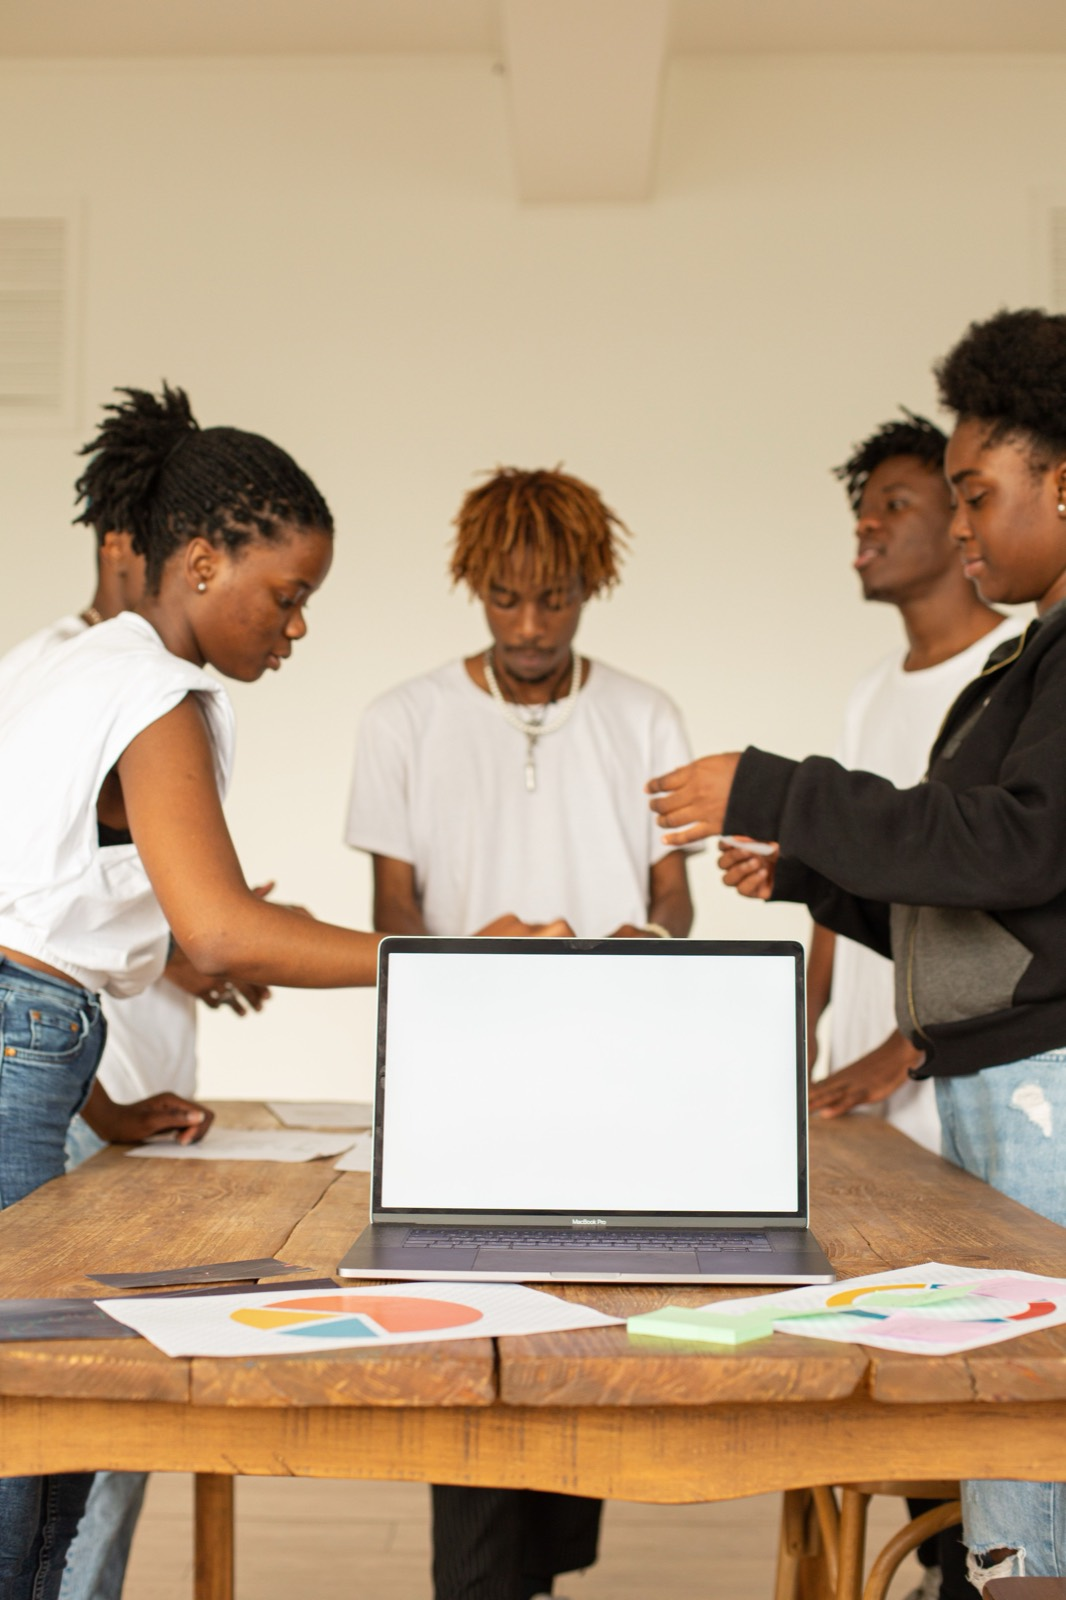
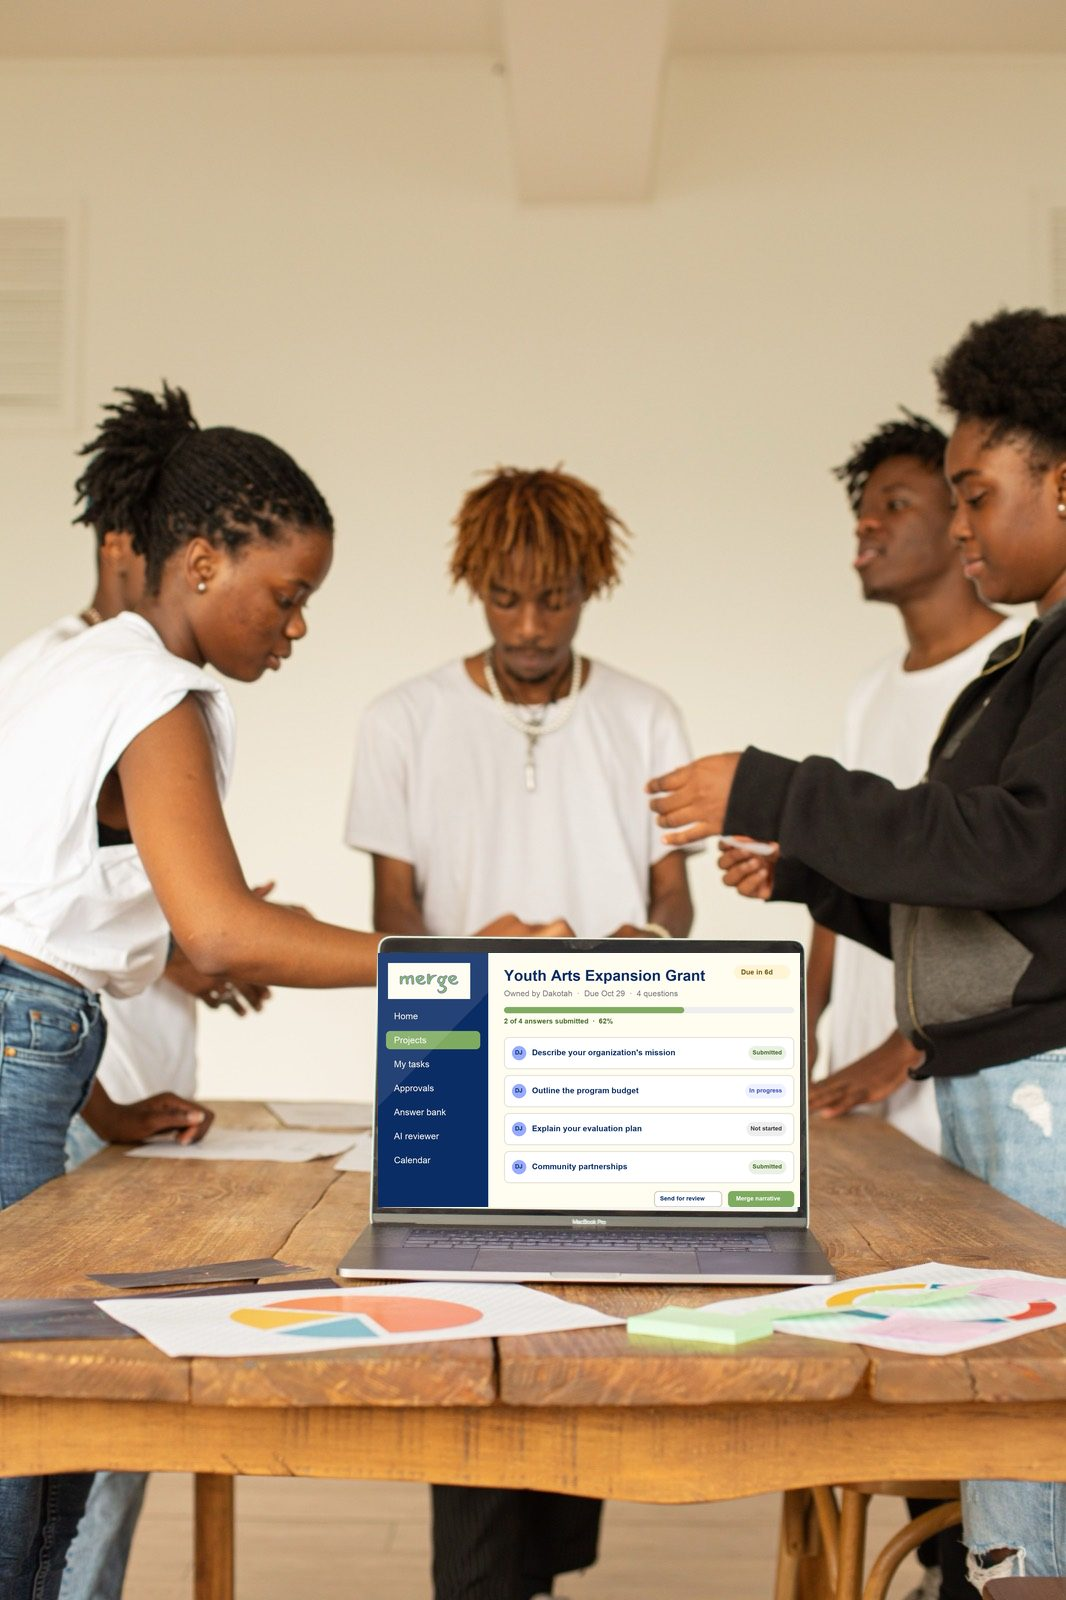
Organization track: Solo Writer $14.99, Small Teams $12.99, Large Teams $21.99, Companies $29.99; Merge screen composited into share image

Changed region(s): [[0.3405, 0.5938, 0.7739, 0.7812]]

diff --git a/client/public/index.html b/client/public/index.html
@@ -16,12 +16,12 @@
     <meta property="og:title" content="Merge · Grant proposals, written together" />
     <meta property="og:description" content="Grant-writing software that turns a funding application into a shared checklist: questions, word limits, past answers, approvals, and a downloadable proposal." />
     <meta property="og:url" content="https://mergev1-78hi.vercel.app/" />
-    <meta property="og:image" content="https://mergev1-78hi.vercel.app/img/team.jpg" />
+    <meta property="og:image" content="https://mergev1-78hi.vercel.app/img/og.jpg" />
     <meta property="og:image:alt" content="A nonprofit team reviewing a grant proposal together" />
     <meta name="twitter:card" content="summary_large_image" />
     <meta name="twitter:title" content="Merge · Grant proposals, written together" />
     <meta name="twitter:description" content="Grant-writing software for nonprofits, consultants, and solo grant writers." />
-    <meta name="twitter:image" content="https://mergev1-78hi.vercel.app/img/team.jpg" />
+    <meta name="twitter:image" content="https://mergev1-78hi.vercel.app/img/og.jpg" />
 
     <link rel="icon" href="%PUBLIC_URL%/favicon.ico" />
     <link rel="apple-touch-icon" href="%PUBLIC_URL%/logo192.png" />
@@ -48,8 +48,10 @@
             { "@type": "Offer", "name": "Starter (grant writers)", "price": "6.99", "priceCurrency": "USD", "priceSpecification": { "@type": "UnitPriceSpecification", "price": "6.99", "priceCurrency": "USD", "billingIncrement": 1, "unitText": "month" } },
             { "@type": "Offer", "name": "Premium (grant writers)", "price": "21.99", "priceCurrency": "USD" },
             { "@type": "Offer", "name": "Professional (grant writers)", "price": "59.99", "priceCurrency": "USD" },
-            { "@type": "Offer", "name": "Team", "price": "22.99", "priceCurrency": "USD", "description": "Per person per month, up to 5 people" },
-            { "@type": "Offer", "name": "Enterprise", "price": "49.99", "priceCurrency": "USD", "description": "Per person per month, up to 20 people" }
+            { "@type": "Offer", "name": "Solo Writer (organizations)", "price": "14.99", "priceCurrency": "USD", "description": "Per month, one person" },
+            { "@type": "Offer", "name": "Small Teams", "price": "12.99", "priceCurrency": "USD", "description": "Per person per month, up to 5 people" },
+            { "@type": "Offer", "name": "Large Teams", "price": "21.99", "priceCurrency": "USD", "description": "Per person per month, up to 20 people" },
+            { "@type": "Offer", "name": "Companies", "price": "29.99", "priceCurrency": "USD", "description": "Per person per month, unlimited people" }
           ],
           "publisher": { "@id": "https://mergev1-78hi.vercel.app/#org" }
         },
@@ -72,7 +74,7 @@
             { "@type": "Question", "name": "What is Merge?", "acceptedAnswer": { "@type": "Answer", "text": "Merge is grant-writing software. You enter the questions a funder asks, write or assign answers, keep each one inside its word limit, get sign-off, and download the finished proposal as a PDF or Word document." } },
             { "@type": "Question", "name": "Who is Merge for?", "acceptedAnswer": { "@type": "Answer", "text": "Solo grant writers, nonprofit development teams, and consultants who manage proposals for several clients. There is a writer track for one person and a team track for organizations that write together." } },
             { "@type": "Question", "name": "Does Merge use AI?", "acceptedAnswer": { "@type": "Answer", "text": "Yes. Ask Merge is a writing assistant that knows your organization profile, partners, and the project you have open. The AI reviewer critiques a proposal against a funder's website and purpose statement. AI features are on paid plans." } },
-            { "@type": "Question", "name": "How much does Merge cost?", "acceptedAnswer": { "@type": "Answer", "text": "Grant writers: Free for one grant, Starter $6.99 a month, Premium $21.99 a month, Professional $59.99 a month. Teams: Team $22.99 per person per month for up to 5 people, Enterprise $49.99 per person per month for up to 20, and Custom for larger networks. Every new workspace starts with a free 14-day trial." } },
+            { "@type": "Question", "name": "How much does Merge cost?", "acceptedAnswer": { "@type": "Answer", "text": "Grant writers: Free for one grant, Starter $6.99 a month, Premium $21.99 a month, Professional $59.99 a month. Organizations: Solo Writer $14.99 a month for one person, Small Teams $12.99 per person per month for up to 5 people, Large Teams $21.99 per person per month for up to 20, and Companies $29.99 per person per month with unlimited people. Every new workspace starts with a free 14-day trial." } },
             { "@type": "Question", "name": "Can someone approve a proposal without an account?", "acceptedAnswer": { "@type": "Answer", "text": "Yes. Send for review creates a read-only link. The reviewer reads the proposal and either approves it or requests changes with notes, with no login required." } }
           ]
         }
@@ -99,7 +101,7 @@
           <li><strong>Partners, past proposals, file cabinet, grant calendar, and per-grant notes.</strong></li>
         </ul>
         <h2>Pricing</h2>
-        <p><strong>For grant writers:</strong> Free (1 grant), Starter $6.99/month, Premium $21.99/month, Professional $59.99/month. <strong>For teams:</strong> Team $22.99 per person/month (up to 5), Enterprise $49.99 per person/month (up to 20), Custom for larger networks. Every new workspace starts with a free 14-day trial.</p>
+        <p><strong>For grant writers:</strong> Free (1 grant), Starter $6.99/month, Premium $21.99/month, Professional $59.99/month. <strong>For organizations:</strong> Solo Writer $14.99/month (one person), Small Teams $12.99 per person/month (up to 5), Large Teams $21.99 per person/month (up to 20), Companies $29.99 per person/month (unlimited). Every new workspace starts with a free 14-day trial.</p>
         <p><a href="/signup">Create a workspace</a> · <a href="/login">Sign in</a> · Powered by <a href="https://badjr.vercel.app">Badjr</a></p>
       </main>
     </div>

diff --git a/client/src/pages/Landing.js b/client/src/pages/Landing.js
@@ -84,10 +84,10 @@ export default function Landing() {
 
       <section className="section" id="pricing">
         <h2>Simple pricing</h2>
-        <p className="sub">Every new workspace starts with a free 14-day trial of {track === 'writer' ? 'Premium' : 'Team'}. No credit card.</p>
+        <p className="sub">Every new workspace starts with a free 14-day trial of {track === 'writer' ? 'Premium' : 'Small Teams'}. No credit card.</p>
         <div className="pricing-tabs" role="tablist">
           <button role="tab" className={track === 'writer' ? 'active' : ''} onClick={() => setTrack('writer')}>For grant writers</button>
-          <button role="tab" className={track === 'team' ? 'active' : ''} onClick={() => setTrack('team')}>For teams</button>
+          <button role="tab" className={track === 'team' ? 'active' : ''} onClick={() => setTrack('team')}>For organizations</button>
         </div>
         {track === 'writer' ? (
           <div className="grid-4 pricing-grid">
@@ -97,10 +97,11 @@ export default function Landing() {
             <Card className="price-card"><h3>Professional</h3><div className="price">$59.99<small>/mo</small></div><p className="small muted">For consultants with many clients.</p><ul><li>Everything in Premium</li><li>A workspace per client</li><li>Integrations</li><li>Higher AI limits, priority support</li></ul><Link to="/signup" className="btn btn-secondary btn-block">Start free trial</Link></Card>
           </div>
         ) : (
-          <div className="grid-3">
-            <Card className="price-card featured"><span className="badge badge-green">Most popular</span><h3 className="mt-1">Team</h3><div className="price">$22.99<small>/person/mo</small></div><p className="small muted">For organizations that write together.</p><ul><li>Up to 5 people</li><li>Assign questions, track progress</li><li>Approvals with a paper trail</li><li>Answer bank and Ask Merge</li><li>Partners, past proposals, AI reviewer</li></ul><Link to="/signup" className="btn btn-primary btn-block">Start free trial</Link></Card>
-            <Card className="price-card"><h3>Enterprise</h3><div className="price">$49.99<small>/person/mo</small></div><p className="small muted">For larger organizations.</p><ul><li>Up to 20 people</li><li>Everything in Team</li><li>Multiple workspaces</li><li>Integrations: Drive, Zapier, webhooks</li><li>Priority support</li></ul><Link to="/signup" className="btn btn-secondary btn-block">Start free trial</Link></Card>
-            <Card className="price-card"><h3>Custom</h3><div className="price" style={{ fontSize: 30 }}>Let's talk</div><p className="small muted">Networks and 20+ people.</p><ul><li>Everything in Enterprise</li><li>Custom branding</li><li>Custom integrations</li><li>Volume pricing</li></ul><a href="mailto:hello@dakjencreative.com" className="btn btn-secondary btn-block">Contact us</a></Card>
+          <div className="grid-4 pricing-grid">
+            <Card className="price-card"><h3>Solo Writer</h3><div className="price">$14.99<small>/mo</small></div><p className="small muted">One person writing grants for their organization.</p><ul><li>1 person</li><li>Unlimited grants</li><li>Ask Merge and AI reviewer</li><li>Send for review by link</li><li>Partners and past proposals</li></ul><Link to="/signup" className="btn btn-secondary btn-block">Start free trial</Link></Card>
+            <Card className="price-card featured"><span className="badge badge-green">Most popular</span><h3 className="mt-1">Small Teams</h3><div className="price">$12.99<small>/person/mo</small></div><p className="small muted">Up to 5 people writing together.</p><ul><li>Assign questions, track progress</li><li>Approvals with a paper trail</li><li>Answer bank and Ask Merge</li><li>Partners, past proposals, AI reviewer</li><li>Editable narrative with history</li></ul><Link to="/signup" className="btn btn-primary btn-block">Start free trial</Link></Card>
+            <Card className="price-card"><h3>Large Teams</h3><div className="price">$21.99<small>/person/mo</small></div><p className="small muted">Up to 20 people.</p><ul><li>Everything in Small Teams</li><li>Multiple workspaces</li><li>Progress across departments</li></ul><Link to="/signup" className="btn btn-secondary btn-block">Start free trial</Link></Card>
+            <Card className="price-card"><h3>Companies</h3><div className="price">$29.99<small>/person/mo</small></div><p className="small muted">Unlimited people.</p><ul><li>Everything in Large Teams</li><li>Integrations: Drive, Zapier, webhooks</li><li>Custom branding</li><li>Priority support</li></ul><Link to="/signup" className="btn btn-secondary btn-block">Start free trial</Link></Card>
           </div>
         )}
       </section>

diff --git a/client/src/pages/Settings.js b/client/src/pages/Settings.js
@@ -11,8 +11,10 @@ const PLAN_FEATURES = {
   writer: ['Unlimited grants', 'Answer bank', 'Send for review by link', 'File cabinet and calendar'],
   writer_pro: ['Everything in Starter', 'Ask Merge writing assistant', 'AI reviewer', 'Partners and past proposals', 'Editable document with history'],
   professional: ['Everything in Premium', 'Multiple workspaces (one per client)', 'Integrations', 'Higher AI limits', 'Priority support'],
-  team: ['Up to 5 people', 'Assign questions, approvals', 'Answer bank and Ask Merge', 'Partners and past proposals', 'Editable narrative with history', 'AI reviewer'],
-  enterprise: ['Up to 20 people', 'Everything in Team', 'Multiple workspaces', 'Integrations', 'Priority support'],
+  org_solo: ['1 person', 'Unlimited grants', 'Answer bank and Ask Merge', 'AI reviewer', 'Send for review by link', 'Partners and past proposals'],
+  small_team: ['Up to 5 people', 'Assign questions, approvals', 'Answer bank and Ask Merge', 'Partners and past proposals', 'Editable narrative with history', 'AI reviewer'],
+  large_team: ['Up to 20 people', 'Everything in Small Teams', 'Multiple workspaces'],
+  company: ['Unlimited people', 'Everything in Large Teams', 'Integrations', 'Custom branding', 'Priority support'],
 };
 const PER = { workspace: 'free', month: '/mo', person: '/person/mo' };
 
@@ -131,11 +133,11 @@ export default function Settings() {
           {plan?.trialExpired && plan.key === 'free' && <div className="callout callout-gold mb-2"><strong>Your trial has ended.</strong> You're on the Free plan. Choose a plan to bring back teammates, approvals, the answer bank, and Ask Merge.</div>}
           {usage && plan && plan.limits.totalProjects !== null && <p className="small muted">Grants: <strong>{usage.totalProjects} of {plan.limits.totalProjects}</strong>.</p>}
           <div className="callout mb-3 row-between">
-            <div><strong>Workspace type:</strong> {plan?.kind === 'writer' ? 'Writer (one person)' : 'Team'}<div className="tiny muted">{plan?.kind === 'writer' ? 'Switching to Team lets you invite people and use approvals. Plans differ by type.' : 'Switching to Writer is for a single person. Remove other members first.'}</div></div>
-            {isAdmin && <Button variant="secondary" size="sm" onClick={() => switchKind(plan?.kind === 'writer' ? 'team' : 'writer')} loading={busy === 'kind'}>Switch to {plan?.kind === 'writer' ? 'Team' : 'Writer'}</Button>}
+            <div><strong>Workspace type:</strong> {plan?.kind === 'writer' ? 'Grant writer' : 'Organization'}<div className="tiny muted">{plan?.kind === 'writer' ? 'Switching to Organization lets you invite people and use approvals. Plans differ by type.' : 'Switching to Grant writer is for a single professional. Remove other members first.'}</div></div>
+            {isAdmin && <Button variant="secondary" size="sm" onClick={() => switchKind(plan?.kind === 'writer' ? 'team' : 'writer')} loading={busy === 'kind'}>Switch to {plan?.kind === 'writer' ? 'Organization' : 'Grant writer'}</Button>}
           </div>
           <div className="plan-grid">
-            {plans.filter(p => p.key !== 'custom' && (p.key === 'free' || p.track === (plan?.kind === 'writer' ? 'writer' : 'team'))).map(p => (
+            {plans.filter(p => p.key === 'free' || p.track === (plan?.kind === 'writer' ? 'writer' : 'team')).map(p => (
               <button key={p.key} type="button" className={`plan-option ${plan?.key === p.key ? 'current' : ''}`} onClick={() => isAdmin && plan?.key !== p.key && changePlan(p.key)} disabled={!isAdmin || busy === 'plan'}>
                 <div className="row-between"><strong style={{ color: 'var(--navy)' }}>{p.name}</strong>{plan?.key === p.key && <span className="badge badge-green">{plan.trialing ? 'Trial' : 'Current'}</span>}</div>
                 <div className="p-price">{p.price === 0 ? 'Free' : `$${p.price}`}{p.price ? <span className="tiny muted"> {PER[p.per]}</span> : null}</div>
@@ -143,7 +145,7 @@ export default function Settings() {
               </button>
             ))}
           </div>
-          <p className="tiny faint mt-2">Need custom branding or 20+ people? <a href="mailto:hello@dakjencreative.com">Ask about Custom</a>.</p>
+          <p className="tiny faint mt-2">Questions about plans? <a href="mailto:hello@dakjencreative.com">Email us</a>.</p>
         </div>
       </Card>
       <Card pad>

diff --git a/client/src/components/Upgrade.js b/client/src/components/Upgrade.js
@@ -5,16 +5,16 @@ import { useAuth } from '../context/AuthContext';
 import { Card } from './ui';
 
 export const FEATURE_COPY = {
-  unlimited_projects: { title: 'Unlimited grants', min: { writer: 'Starter', team: 'Team' }, text: 'Free includes one grant. Paid plans remove the cap.' },
-  answer_bank: { title: 'Answer bank', min: { writer: 'Starter', team: 'Team' }, text: 'Every answer you write becomes searchable and reusable, with similar-answer suggestions while you write.' },
-  assistant: { title: 'Ask Merge', min: { writer: 'Premium', team: 'Team' }, text: 'A writing assistant that knows your organization, your partners, and the project you have open.' },
-  external_review: { title: 'Send for review', min: { writer: 'Starter', team: 'Team' }, text: 'Share a read-only link so an executive director or board member can approve or send back notes. No account needed.' },
-  team: { title: 'Teammates', min: { writer: 'a team workspace', team: 'Team' }, text: 'Invite people, assign questions, and write together.' },
-  approvals: { title: 'Approvals', min: { writer: 'a team workspace', team: 'Team' }, text: 'Route a finished proposal to an approver and track sign-off.' },
-  partners: { title: 'Partners directory', min: { writer: 'Premium', team: 'Team' }, text: 'Keep the organizations you collaborate with in one place and let Ask Merge recommend which ones fit a grant.' },
-  past_proposals: { title: 'Past proposals library', min: { writer: 'Premium', team: 'Team' }, text: 'Store finished applications, including ones written before Merge, and search them when the next grant comes around.' },
-  narrative_editing: { title: 'Editable document', min: { writer: 'Premium', team: 'Team' }, text: 'Polish the merged document as one piece of writing, with every edit saved to version history.' },
-  ai_reviewer: { title: 'AI reviewer', min: { writer: 'Premium', team: 'Team' }, text: 'Get a funder\'s-eye critique of a proposal before you submit it.' },
+  unlimited_projects: { title: 'Unlimited grants', min: { writer: 'Starter', team: 'Solo Writer' }, text: 'Free includes one grant. Paid plans remove the cap.' },
+  answer_bank: { title: 'Answer bank', min: { writer: 'Starter', team: 'Solo Writer' }, text: 'Every answer you write becomes searchable and reusable, with similar-answer suggestions while you write.' },
+  assistant: { title: 'Ask Merge', min: { writer: 'Premium', team: 'Solo Writer' }, text: 'A writing assistant that knows your organization, your partners, and the project you have open.' },
+  external_review: { title: 'Send for review', min: { writer: 'Starter', team: 'Solo Writer' }, text: 'Share a read-only link so an executive director or board member can approve or send back notes. No account needed.' },
+  team: { title: 'Teammates', min: { writer: 'an organization workspace', team: 'Small Teams' }, text: 'Invite people, assign questions, and write together.' },
+  approvals: { title: 'Approvals', min: { writer: 'an organization workspace', team: 'Small Teams' }, text: 'Route a finished proposal to an approver and track sign-off.' },
+  partners: { title: 'Partners directory', min: { writer: 'Premium', team: 'Solo Writer' }, text: 'Keep the organizations you collaborate with in one place and let Ask Merge recommend which ones fit a grant.' },
+  past_proposals: { title: 'Past proposals library', min: { writer: 'Premium', team: 'Solo Writer' }, text: 'Store finished applications, including ones written before Merge, and search them when the next grant comes around.' },
+  narrative_editing: { title: 'Editable document', min: { writer: 'Premium', team: 'Solo Writer' }, text: 'Polish the merged document as one piece of writing, with every edit saved to version history.' },
+  ai_reviewer: { title: 'AI reviewer', min: { writer: 'Premium', team: 'Solo Writer' }, text: 'Get a funder\'s-eye critique of a proposal before you submit it.' },
 };
 
 export default function UpgradeGate({ feature, children }) {

diff --git a/client/src/pages/Signup.js b/client/src/pages/Signup.js
@@ -32,14 +32,14 @@ export default function Signup() {
   };
 
   return (
-    <AuthLayout title="Create your workspace" lead={form.kind === 'writer' ? 'Starts with a free 14-day Writer Pro trial.' : "You'll be the admin. Starts with a free 14-day Team trial."} footer={<>Already have an account? <Link to="/login">Sign in</Link></>}
+    <AuthLayout title="Create your workspace" lead={form.kind === 'writer' ? 'Starts with a free 14-day Premium trial.' : "You'll be the admin. Starts with a free 14-day Small Teams trial."} footer={<>Already have an account? <Link to="/login">Sign in</Link></>}
       side={{ title: 'Set up in two minutes.', text: 'Name your workspace, add your first project, and invite the people who help you write.' }}>
       <form onSubmit={submit} noValidate>
         {error && <div className="form-error">{error}</div>}
         <Field label="How will you use Merge?">
           <div className="kind-picker">
-            <button type="button" className={`kind-option ${form.kind === 'writer' ? 'active' : ''}`} onClick={() => setForm(f => ({ ...f, kind: 'writer' }))}><strong>I write grants myself</strong><span>One writer. Write, send for review, download.</span></button>
-            <button type="button" className={`kind-option ${form.kind === 'team' ? 'active' : ''}`} onClick={() => setForm(f => ({ ...f, kind: 'team' }))}><strong>We write as a team</strong><span>Assign questions, approvals, shared library.</span></button>
+            <button type="button" className={`kind-option ${form.kind === 'writer' ? 'active' : ''}`} onClick={() => setForm(f => ({ ...f, kind: 'writer' }))}><strong>I'm a grant writer</strong><span>Solo professional or consultant. Write, send for review, download.</span></button>
+            <button type="button" className={`kind-option ${form.kind === 'team' ? 'active' : ''}`} onClick={() => setForm(f => ({ ...f, kind: 'team' }))}><strong>I'm writing for my organization</strong><span>Solo or with a team. Assign questions, approvals, shared library.</span></button>
           </div>
         </Field>
         <Field label={form.kind === 'writer' ? 'Workspace name' : 'Organization or workspace name'} htmlFor="companyName" hint={form.kind === 'writer' ? 'Your name or business name works fine.' : 'Your team will see this name.'}>
